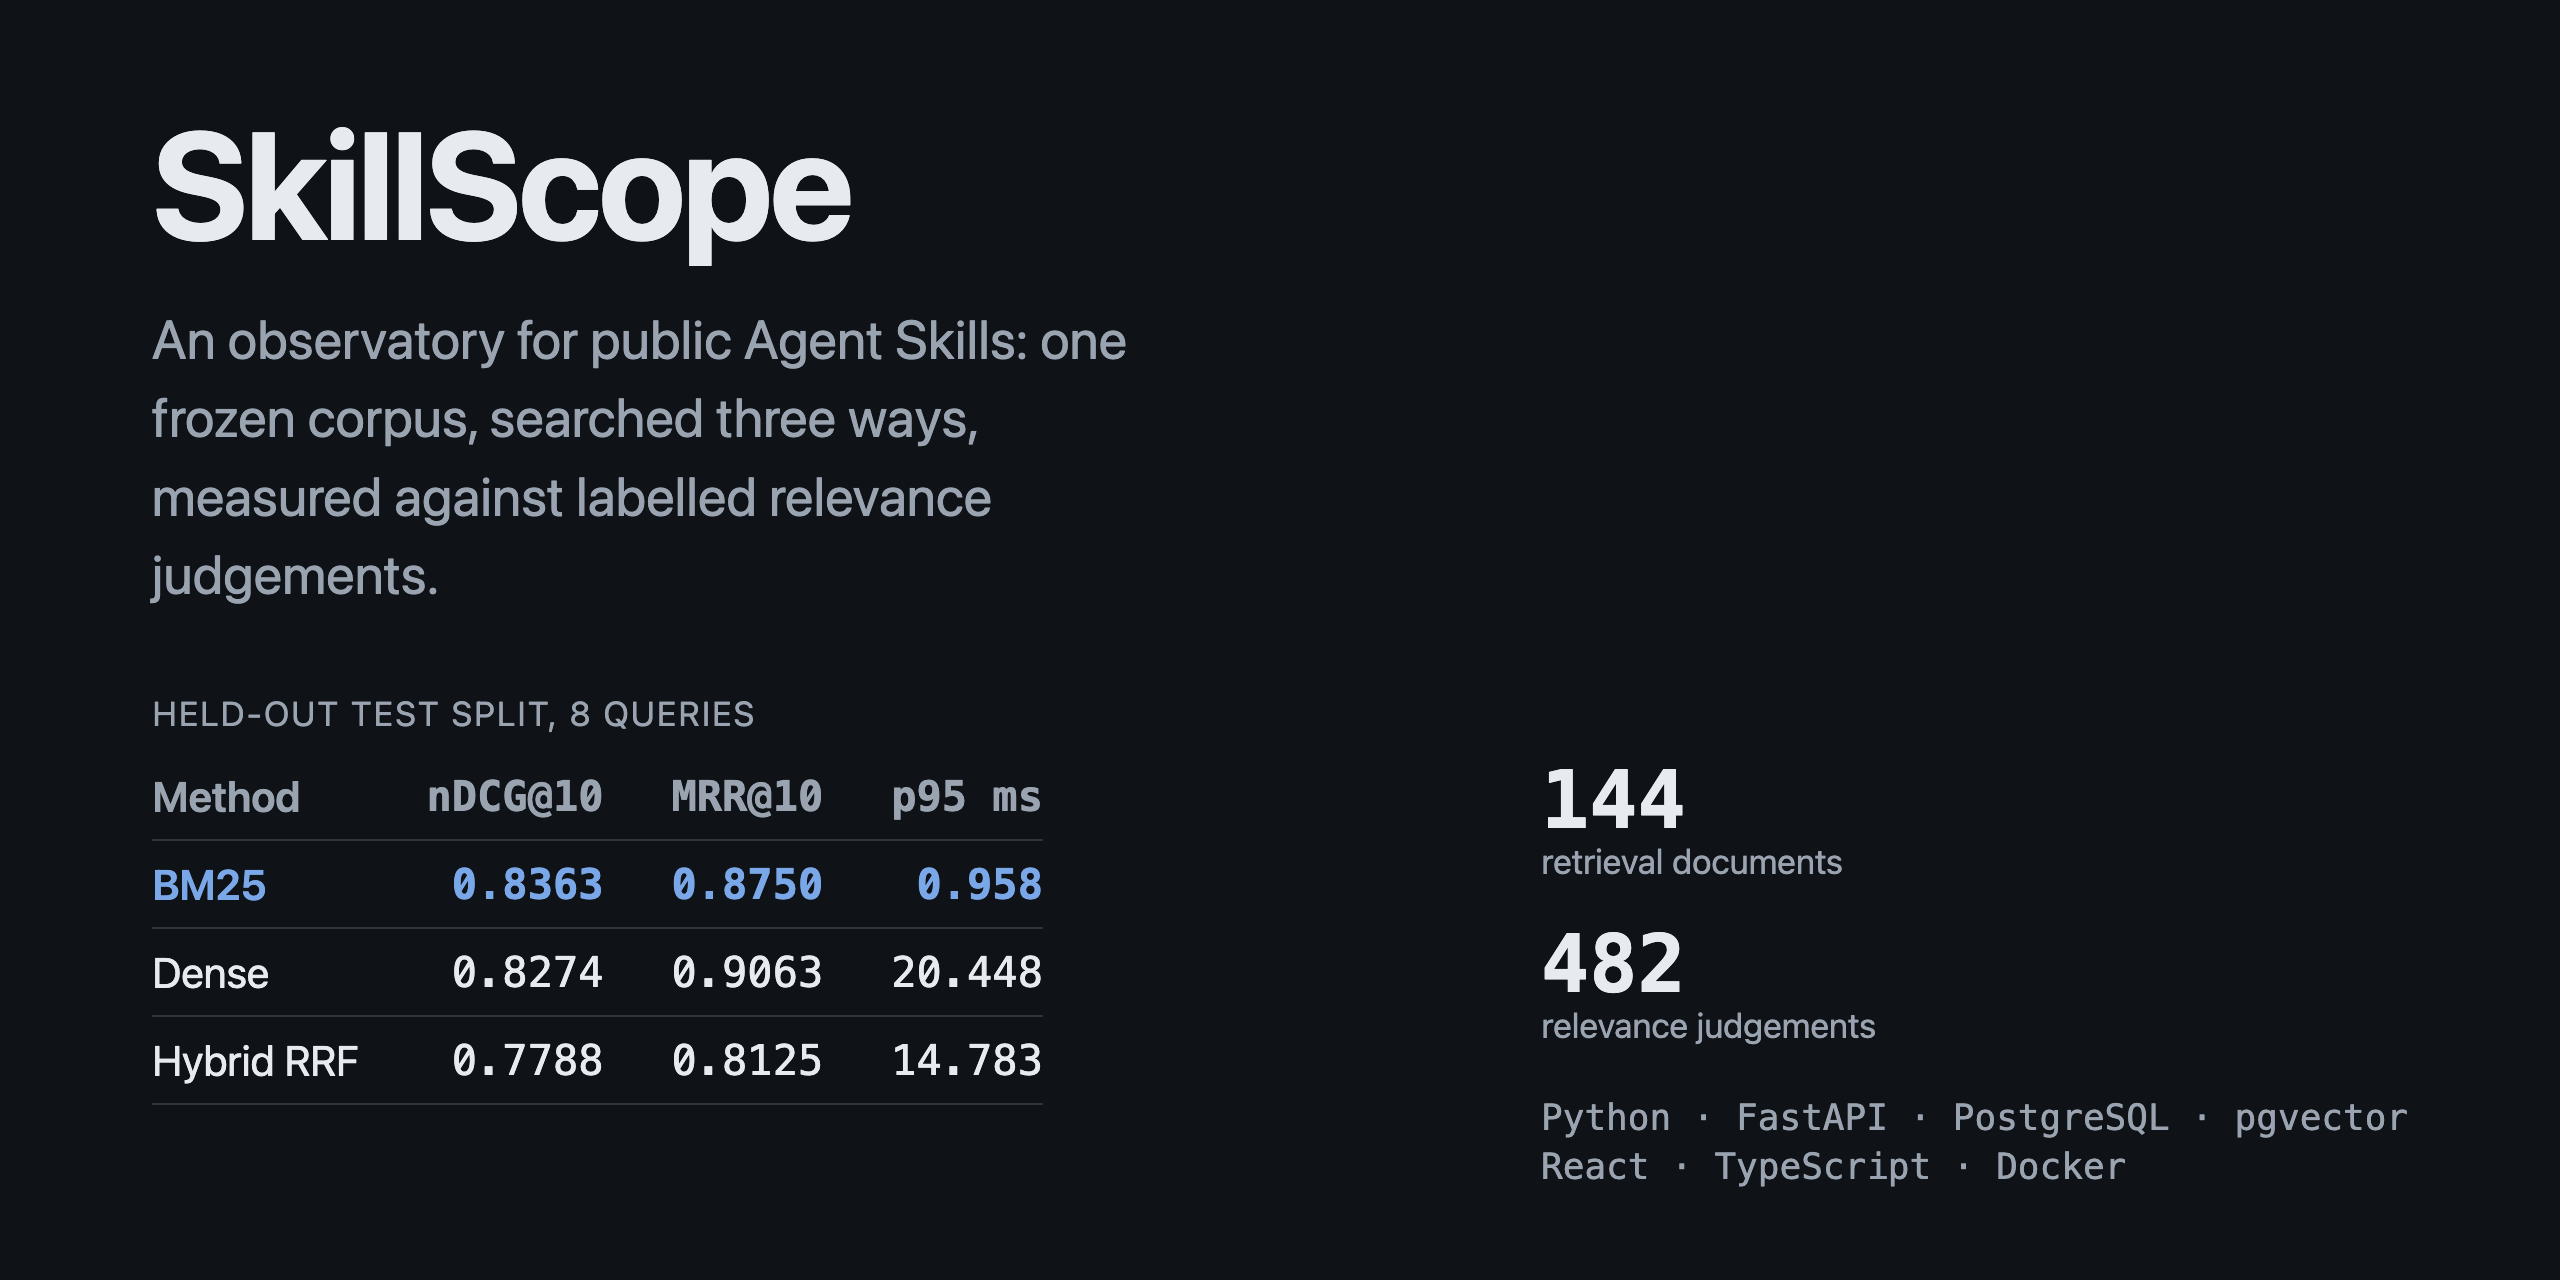
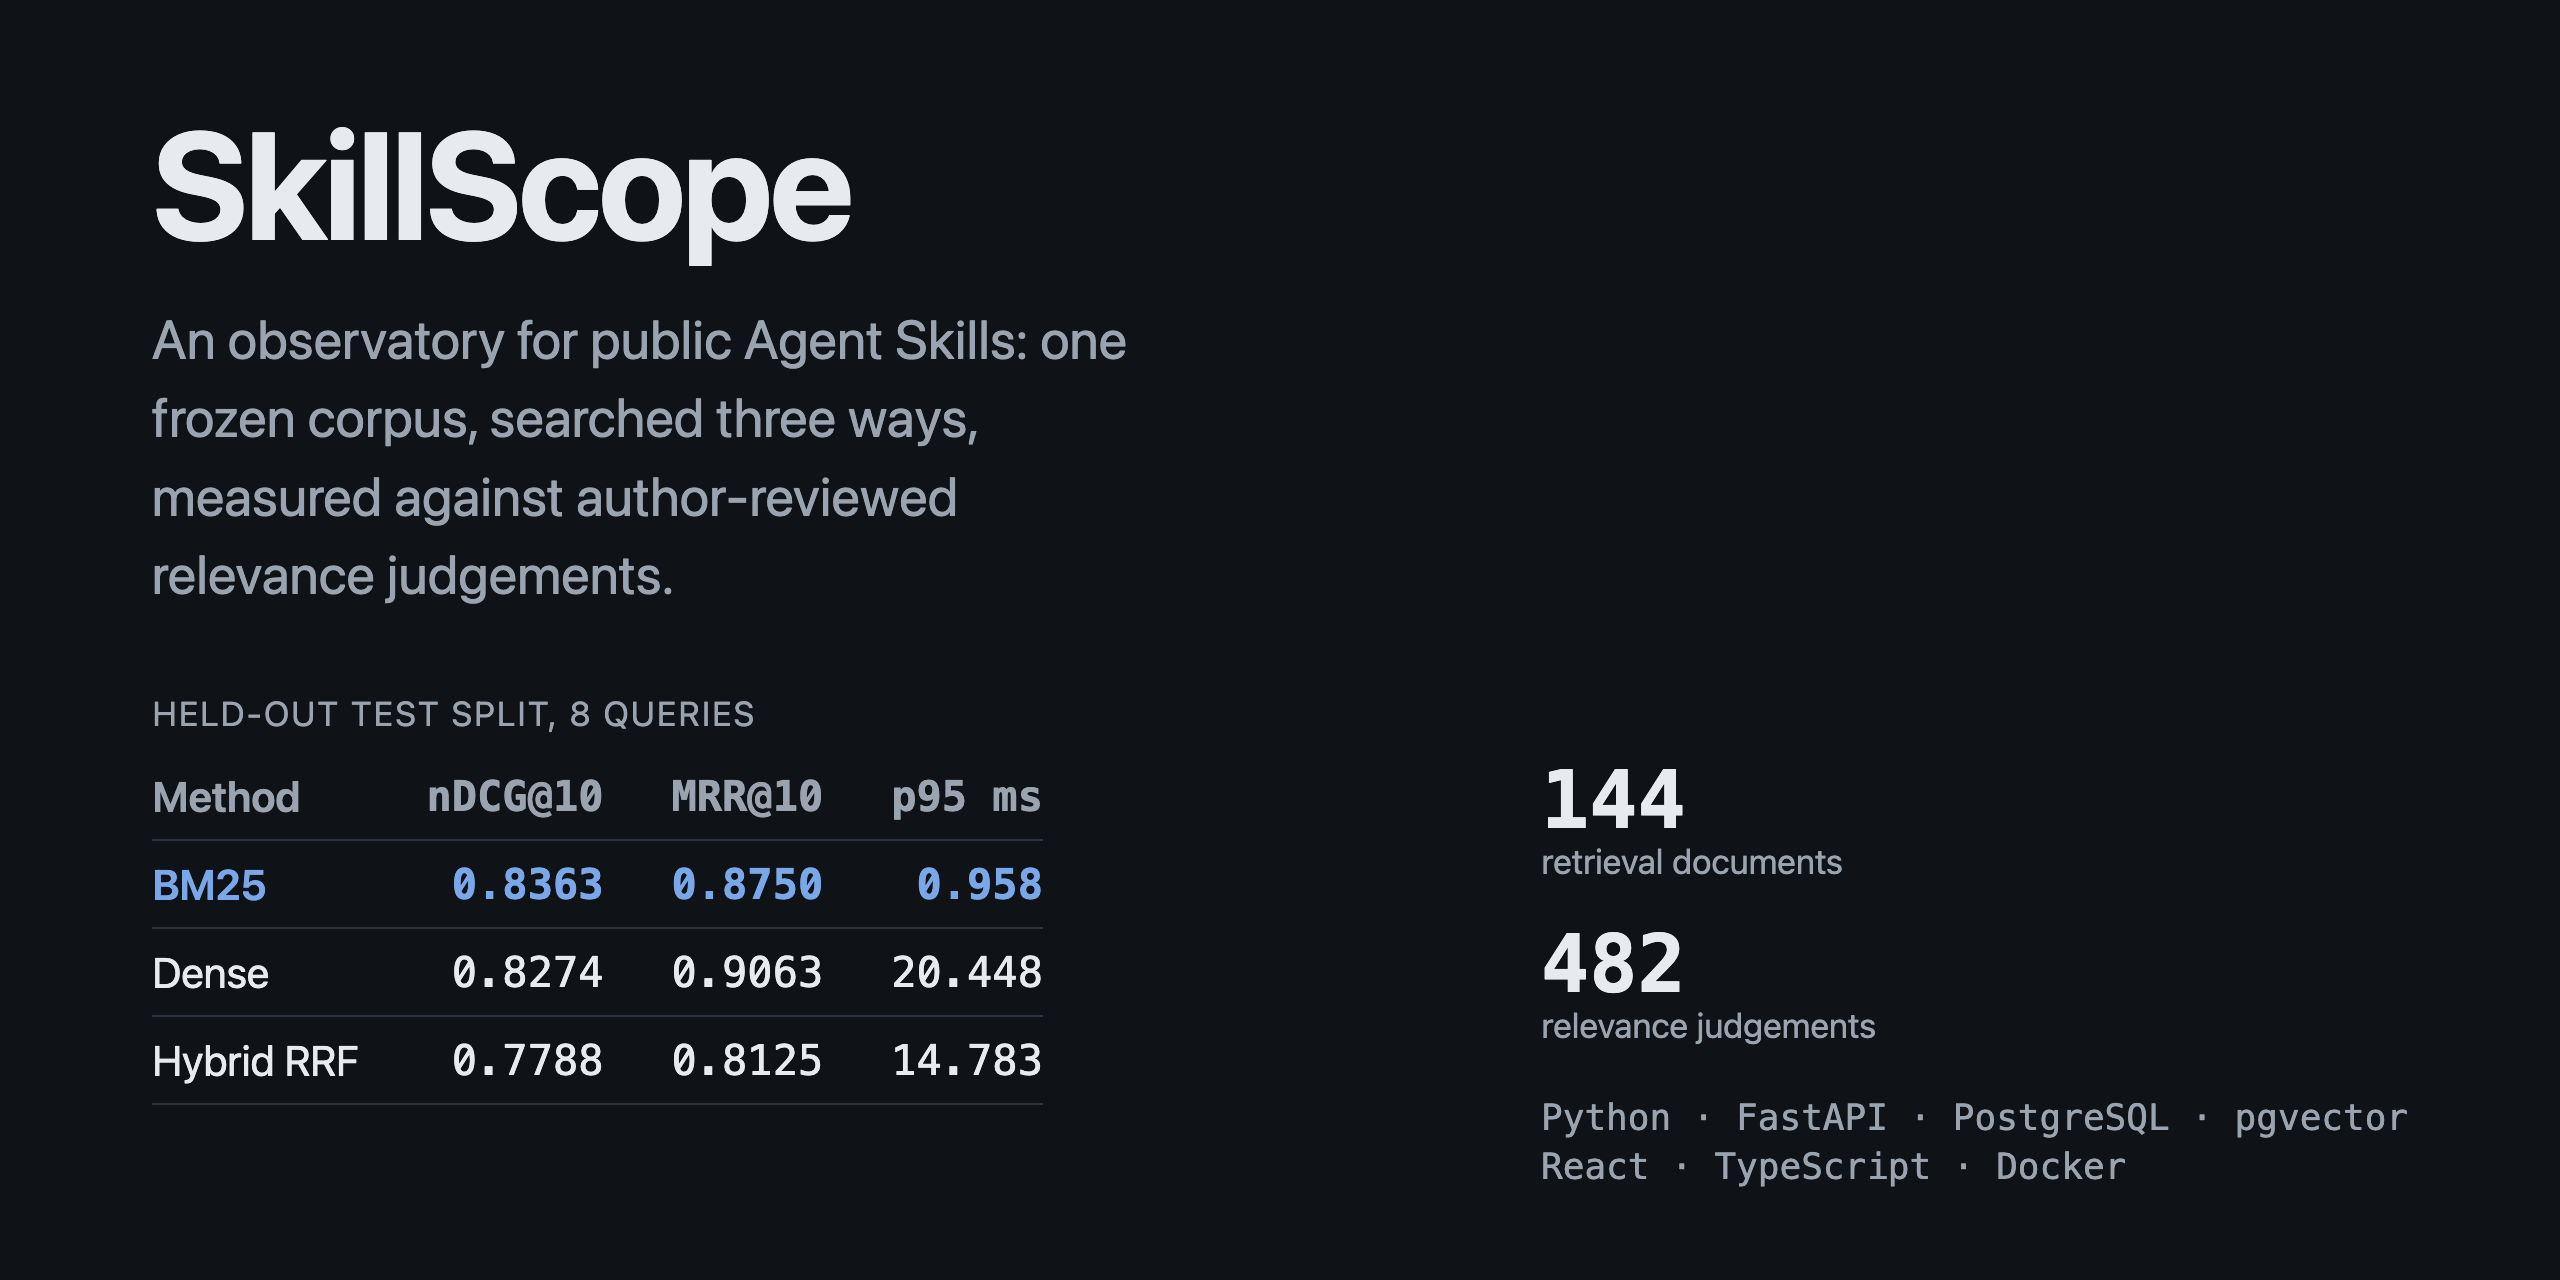
docs: state the labelling method and retained excerpts accurately
The headline said judgements were "manually labelled" while the methodology
disclosed AI-assisted, author-reviewed pre-annotation. Use the short accurate
form in the headline, the interface and the social preview, and the full
disclosure in the methodology and data card.

The licensing claim said no upstream content is committed. That is true of
SKILL.md bodies and supporting files, but the frozen evaluation pool retains
bounded source-attributed description excerpts so the judgements stay
auditable: 482 records covering 124 distinct skills, capped at 500 characters,
36,441 characters of distinct text. Say so, with the counts.

Also add the CI badge, pin the checkout and setup-node actions to commit SHAs,
add Dependabot for uv, npm, Actions and Docker, and retry a failed screenshot
capture rather than aborting the run.

Changed region(s): [[0.0625, 0.4375, 0.2812, 0.4688], [0.2188, 0.375, 0.4062, 0.4062]]

diff --git a/frontend/src/App.tsx b/frontend/src/App.tsx
@@ -42,7 +42,8 @@ export function App() {
         <h1>SkillScope</h1>
         <p>
           An observatory for public Agent Skills: a frozen, validated corpus
-          searched three ways and measured against author-reviewed relevance judgements.
+          searched three ways and measured against author-reviewed relevance
+          judgements.
         </p>
         <nav className="tabs" aria-label="Views">
           <button

diff --git a/docs/media/social-preview.html b/docs/media/social-preview.html
@@ -135,7 +135,7 @@
     <h1>SkillScope</h1>
     <p class="lede">
       An observatory for public Agent Skills: one frozen corpus, searched three
-      ways, measured against labelled relevance judgements.
+      ways, measured against author-reviewed relevance judgements.
     </p>
 
     <div class="split">

diff --git a/docs/data-card.md b/docs/data-card.md
@@ -88,10 +88,36 @@ Never their contents.
 
 ## Raw content handling
 
-Skill bodies are fetched into the local PostgreSQL database because indexing
-needs them. They are never written to a committed file. The candidate manifest
-and dataset snapshot carry identifiers, hashes, statuses and safe failure
-categories only, and a test asserts they contain no body.
+SkillScope never commits complete upstream `SKILL.md` bodies or supporting
+files. Skill bodies are fetched into the local PostgreSQL database because
+indexing needs them, and are never written to a committed file. The candidate
+manifest and dataset snapshot carry identifiers, hashes, statuses and safe
+failure categories only, and a test asserts they contain no body.
+
+One committed file does retain upstream text. The frozen evaluation pool,
+`data/evaluation/pools/bm25-v1.jsonl`, stores a bounded, source-attributed
+description excerpt for each pooled candidate so that a reader can check a
+relevance judgement without re-running ingestion. Precisely:
+
+| Measure | Value |
+|---|---:|
+| Pooled records carrying an excerpt | 482 |
+| Distinct skills excerpted | 124 |
+| Maximum excerpt length | 500 characters |
+| Mean excerpt length | 324 characters |
+| Total excerpt text, distinct skills | 36,441 characters |
+
+Each excerpt is attributed to its repository, path and content hash. They are
+drawn from the skill's own description — the field an author writes to explain
+what the skill is for — and are bounded rather than complete. The README
+screenshots in `docs/media` likewise show upstream descriptions as they appear
+in the interface.
+
+This is a deliberate trade-off: without the excerpts the qrels would be a list
+of opaque identifiers and the evaluation would not be auditable. If a future
+release needs stricter licensing conservatism, the pool can be regenerated
+with excerpts replaced by hashes, and the screenshots recaptured from the
+demonstration corpus.
 
 The API returns a short snippet in search results and at most 2,000 characters
 of control-character-filtered plain text in skill detail, alongside a link to
@@ -120,6 +146,11 @@ not a recommendation.
 results plus pre-authored seeds. A relevant skill nobody pooled is invisible to
 the metric, so reported recall is an upper bound on pool coverage rather than
 true recall.
+
+**AI-assisted, author-reviewed labelling.** An assistant produced rank- and
+split-blinded pre-annotations, and the author reviewed and accepted every
+positive or partial grade and its rationale before import. One reviewer means
+one perspective and no inter-annotator agreement figure.
 
 **Point-in-time.** Repositories are renamed, made private, force-pushed and
 deleted. Ingestion fetches at recorded commits so the corpus reproduces while

diff --git a/README.md b/README.md
@@ -1,5 +1,7 @@
 # SkillScope
 
+[![CI](https://github.com/aaditya1903/skillscope/actions/workflows/ci.yml/badge.svg)](https://github.com/aaditya1903/skillscope/actions/workflows/ci.yml)
+
 **An observatory for public Agent Skills: a frozen, validated corpus searched
 three ways and measured against author-reviewed relevance judgements.**
 
@@ -112,12 +114,12 @@ verified and is never claimed.
 | Labelled queries | 24 |
 | Relevance judgements | 482 |
 
-Because many source repositories publish no licence, SkillScope never commits 
-complete upstream SKILL.md bodies or supporting files. The frozen evaluation pool 
-retains bounded, source-attributed description excerpts of at most 500 characters 
-so relevance judgements remain auditable; manifests otherwise contain identifiers,
-hashes, validation outcomes and derived signals. Details, biases and reproduction
-steps are in the [data card](docs/data-card.md).
+Because many source repositories publish no licence, SkillScope never commits
+complete upstream `SKILL.md` bodies or supporting files. The frozen evaluation
+pool retains bounded, source-attributed description excerpts of at most 500
+characters so relevance judgements remain auditable; manifests otherwise
+contain identifiers, hashes, validation outcomes and derived signals. Details,
+biases and reproduction steps are in the [data card](docs/data-card.md).
 
 ## Retrieval methods
 
@@ -143,6 +145,11 @@ See [retrieval.md](docs/retrieval.md).
 development and 8 locked test queries. Candidates were pooled from BM25 results
 and pre-authored seeds, presented rank- and split-blinded, and graded 0
 (not relevant), 1 (relevant with adaptation) or 2 (directly relevant).
+
+Judgements are **AI-assisted, author-reviewed**: an assistant drafted blinded
+pre-annotations, and every positive or partial grade and its rationale was
+reviewed and accepted by the author before import. One reviewer means one
+perspective, so there is no inter-annotator agreement figure.
 
 Configuration was tuned on the development split only, then frozen. The test
 split ran once, and the canonical report refuses to be overwritten. Full
